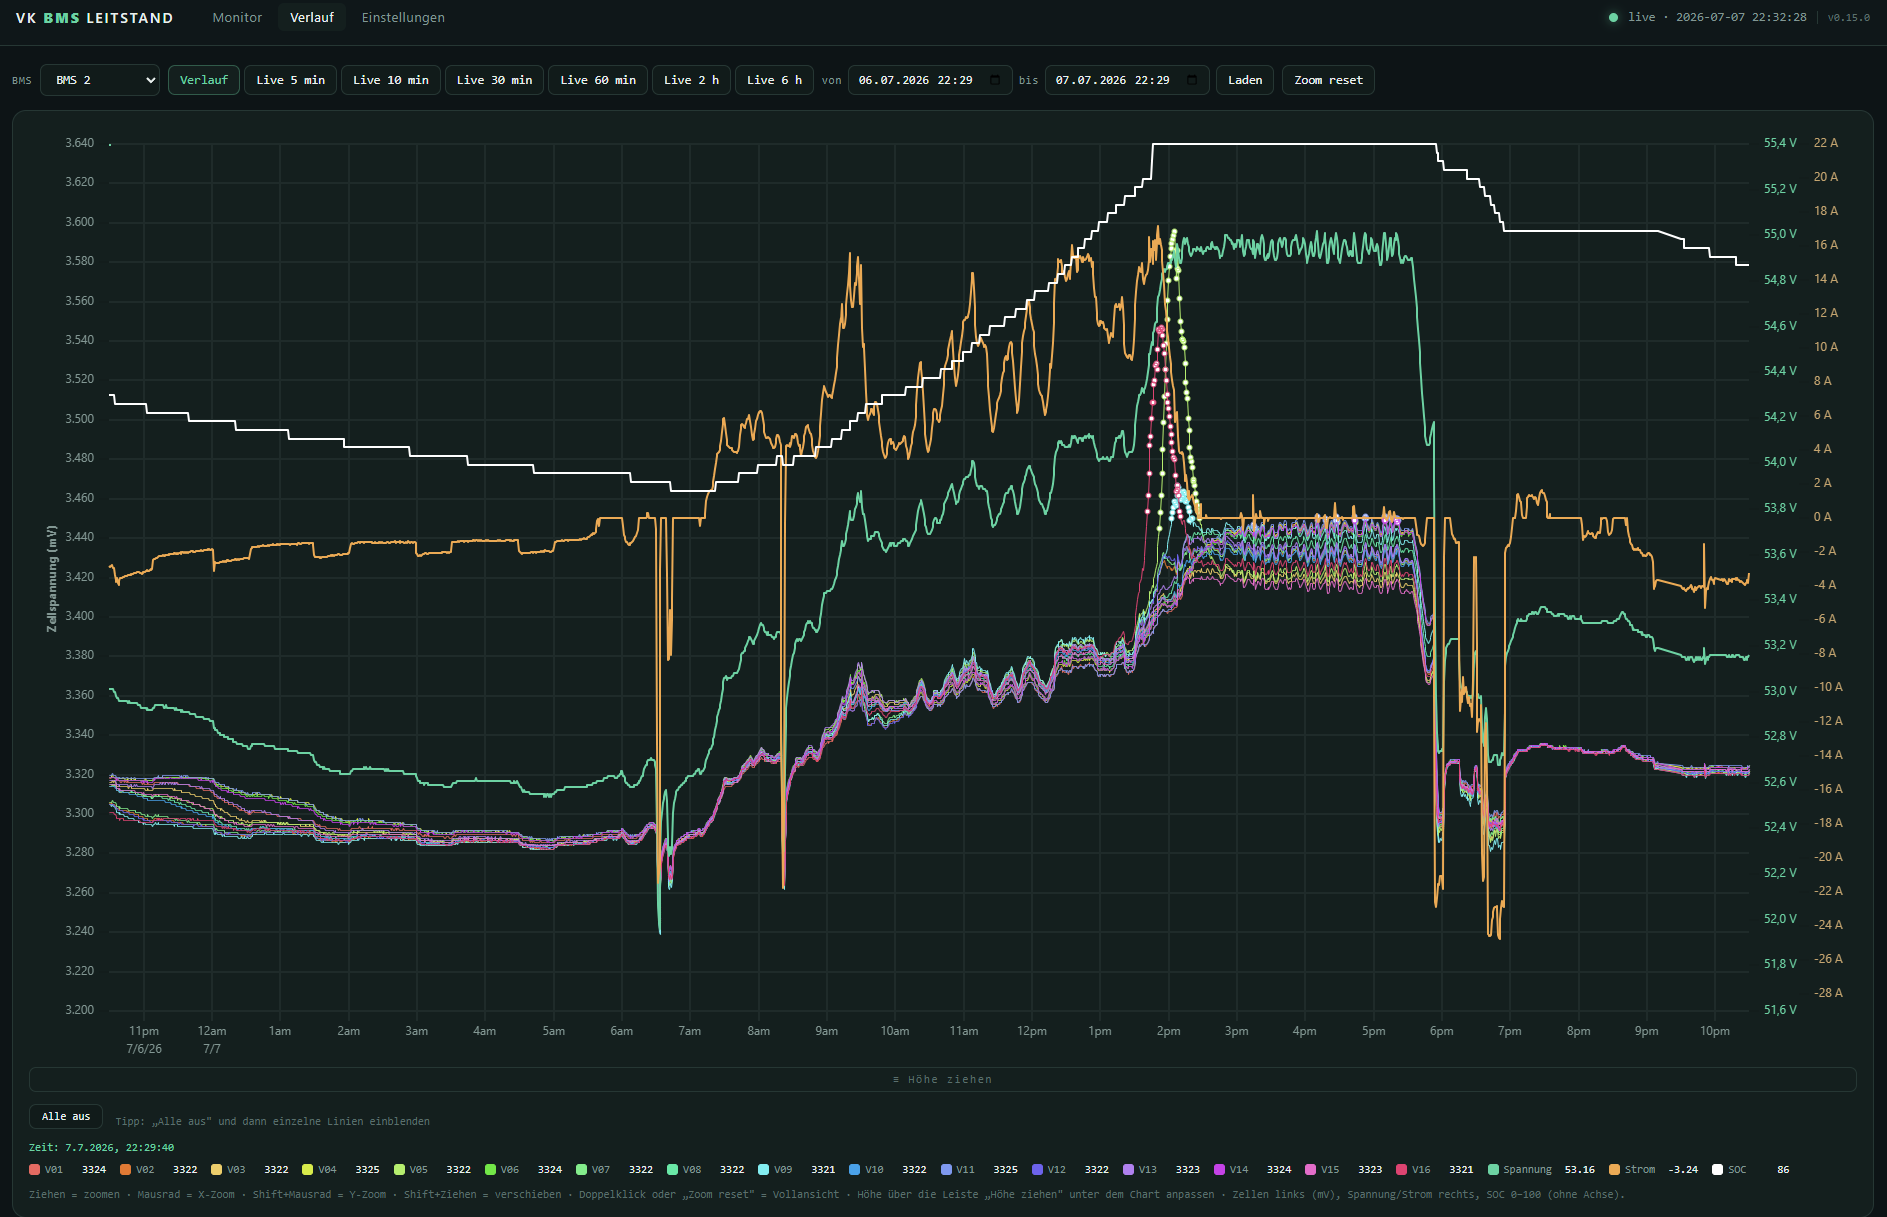
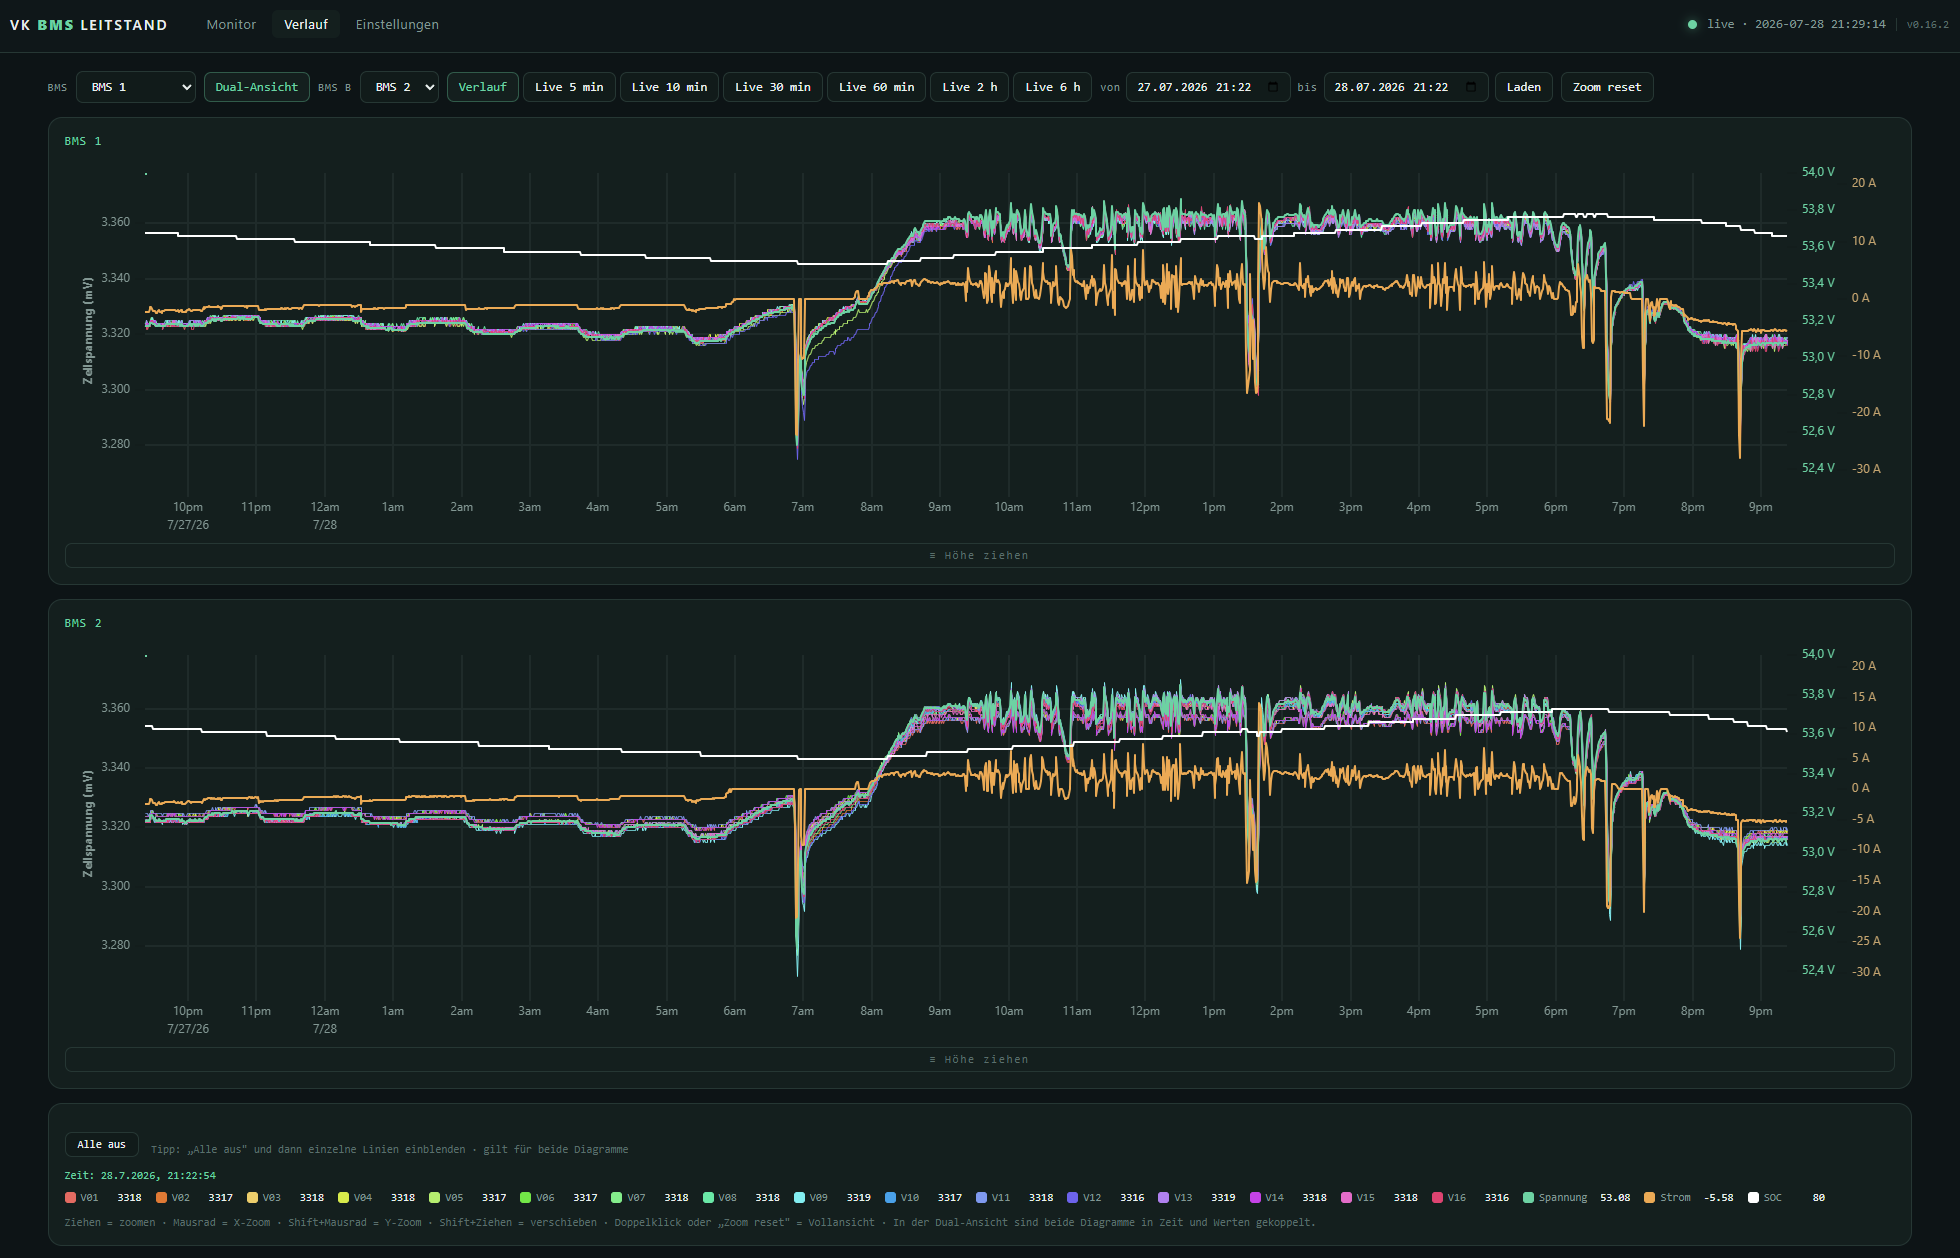
v0.16.10

diff --git a/vkbms/web/chart.html b/vkbms/web/chart.html
@@ -37,7 +37,9 @@
   .card{background:var(--panel);border:1px solid var(--line);border-radius:14px;padding:16px}
   .hint{font:11px var(--mono);color:var(--dim);margin-top:10px}
   input[type=datetime-local]{font:12px var(--mono);background:var(--panel2);color:var(--text);
-    border:1px solid var(--line);border-radius:7px;padding:6px 9px}
+    border:1px solid var(--line);border-radius:7px;padding:6px 9px;cursor:pointer}
+  input[type=datetime-local]::-webkit-calendar-picker-indicator{filter:invert(.85);cursor:pointer;opacity:.8}
+  input[type=datetime-local]::-webkit-calendar-picker-indicator:hover{opacity:1}
   /* eigene, kompakte Legende */
   #legtime{font:11px var(--mono);color:var(--charge);margin-top:12px;height:14px}
   #legtools{display:flex;align-items:center;gap:12px;margin-top:12px}
@@ -140,9 +142,9 @@ const UNIT={mv:"mV",v:"V",a:"A",soc:"%"};
 
 let charts=[];                 // uPlot-Instanzen: [0]=A (oben), [1]=B (unten)
 let PACKS=[];                  // verfügbare Quellen
-let preDualHA=null;            // Einzel-Höhe von A vor dem Umschalten auf Dual
 let sources=["",""];           // ausgewählte Quelle je Slot
-let dual=false, live=0, timer=null, zoomed=false, syncing=false;
+let dual=false, live=0, timer=null, zoomed=false;
+let liveY={};                  // im Live-Betrieb nur wachsende Y-Bereiche (kein Springen)
 const SYNC = (typeof uPlot.sync==="function") ? uPlot.sync("vkbms") : null;
 
 // Balancing-Punkte je Diagramm (u._bal = ODER-Maske je x-Index)
@@ -163,28 +165,30 @@ function cWidth(divId){ const el=document.getElementById(divId);
   return Math.max(320, (el&&el.clientWidth)? el.clientWidth : (window.innerWidth-60)); }
 function wrapHeight(wrapId){ const w=document.getElementById(wrapId); return Math.max(220,(w&&w.clientHeight)||440); }
 
-// Skalen-Kopplung: eine Änderung auf einem Diagramm auf die anderen spiegeln
+// Skalen-Kopplung: Änderung auf die anderen Diagramme spiegeln – timing-unabhängig.
+// Gespiegelt wird nur bei Wertunterschied; dadurch stoppt die gegenseitige Spiegelung
+// sofort (kein Pendeln), unabhängig davon wann uPlot den setScale-Hook feuert.
 function propagateScale(u, key){
-  if(syncing) return;
   const s=u.scales[key]; if(!s) return;
-  syncing=true;
-  charts.forEach(o=>{ if(o!==u && o.scales[key]){ o.setScale(key,{min:s.min,max:s.max}); } });
-  syncing=false;
+  charts.forEach(o=>{ if(o!==u){ const os=o.scales[key];
+    if(os && (os.min!==s.min || os.max!==s.max)) o.setScale(key,{min:s.min,max:s.max}); } });
 }
-function snapScales(u){ const g=k=>[u.scales[k].min,u.scales[k].max];
-  return {x:g("x"),mv:g("mv"),v:g("v"),a:g("a")}; }
-// Vereinigung der Wertebereiche ALLER Diagramme, damit in der Dual-Ansicht nichts
-// abgeschnitten wird (beide Packs passen in die gekoppelten Achsen)
-function unionScales(){
+// Datenbereiche (aus u._range, in applyOne gesetzt) über alle Diagramme vereinigen
+function unionRanges(){
   const r={};
   ["x","mv","v","a"].forEach(k=>{ let mn=Infinity, mx=-Infinity;
-    charts.forEach(u=>{ const s=u.scales[k]; if(s&&s.min!=null&&s.max!=null){ mn=Math.min(mn,s.min); mx=Math.max(mx,s.max); } });
+    charts.forEach(u=>{ const e=u._range&&u._range[k]; if(e){ mn=Math.min(mn,e[0]); mx=Math.max(mx,e[1]); } });
     r[k]=(mn===Infinity)?[null,null]:[mn,mx];
   });
   return r;
 }
-function applyScales(u,r){ u.setScale("x",{min:r.x[0],max:r.x[1]}); u.setScale("mv",{min:r.mv[0],max:r.mv[1]});
-  u.setScale("v",{min:r.v[0],max:r.v[1]}); u.setScale("a",{min:r.a[0],max:r.a[1]}); }
+function padY(rng){ if(!rng||rng[0]==null) return [null,null];
+  const [mn,mx]=rng; if(mn===mx) return [mn-1,mx+1]; const p=(mx-mn)*0.05; return [mn-p,mx+p]; }
+// Live: Y-Achsen auf feste Schrittweiten runden -> ruhige, nicht springende Skalen
+const YSTEP={mv:50, v:1, a:2};
+function snapY(rng, step){ if(!rng||rng[0]==null) return [null,null];
+  let [mn,mx]=rng; if(mn===mx){ mn-=step; mx+=step; }
+  return [Math.floor(mn/step)*step, Math.ceil(mx/step)*step]; }
 
 function makeChart(divId, wrapId, dragId){
   const opts={
@@ -282,12 +286,15 @@ window.addEventListener("resize",()=>{ clearTimeout(rt); rt=setTimeout(()=>{
 function applyDualHeights(){
   if(!dual || !charts[1]) return;
   const cardA=document.getElementById("cardA");
-  const top=cardA.getBoundingClientRect().top;                 // ab hier beginnen die Diagramme
+  const wrapA=document.getElementById("wrapA"), wrapB=document.getElementById("wrapB");
   const legend=document.querySelector("main > .card:last-child");
-  const legendH=legend?legend.getBoundingClientRect().height:0;
-  const overhead = 2*(16*2 + 28 + 22) + 14 + 14 + 18;          // je Card: Padding+Ziehleiste+Titel; + Abstände
-  const each=Math.max(200, Math.floor((window.innerHeight - top - legendH - overhead)/2));
-  ["wrapA","wrapB"].forEach(w=>{ document.getElementById(w).style.height=each+"px"; });
+  const top=cardA.getBoundingClientRect().top;                 // Oberkante Diagramm-Bereich
+  const bottom=legend.getBoundingClientRect().bottom;          // Unterkante des letzten Elements
+  // "chrome" = alles zwischen top und bottom AUSSER den beiden Chart-Wraps -> exakt gemessen
+  const chrome=(bottom-top)-(wrapA.clientHeight+wrapB.clientHeight);
+  const mb=parseFloat(getComputedStyle(document.querySelector("main")).marginBottom)||0;
+  const each=Math.max(200, Math.floor((window.innerHeight - top - chrome - mb - 2)/2));
+  wrapA.style.height=each+"px"; wrapB.style.height=each+"px";
   charts.forEach((u,i)=>{ const d=i===0?"chartA":"chartB"; u.setSize({width:cWidth(d),height:each}); });
 }
 
@@ -343,17 +350,32 @@ function updateLegendValues(u, idx){
     el.querySelector(".val").textContent=(v==null||isNaN(v))?"–":Number(v).toFixed(DEC[si-1]);
   });
 }
+function fitAll(){                        // volle Vereinigung (Verlauf / Reset)
+  const u=unionRanges();
+  charts.forEach(c=>{ c.setScale("x",{min:u.x[0],max:u.x[1]}); c.setScale("soc",{min:0,max:100});
+    ["mv","v","a"].forEach(k=>{ const t=padY(u[k]); c.setScale(k, t[0]!=null?{min:t[0],max:t[1]}:{min:null,max:null}); }); });
+}
+// Live-Skalierung: festes gleitendes Zeitfenster + gerundete (gesnappte) Y-Achsen
+function applyLiveScales(){
+  const u=unionRanges();
+  const xmax=u.x[1];
+  const xmin=(xmax!=null)? xmax - live*60 : u.x[0];
+  charts.forEach(c=>c.setScale("x",{min:xmin,max:xmax}));
+  ["mv","v","a"].forEach(k=>{ const t=snapY(u[k], YSTEP[k]); if(t[0]==null) return;
+    let mn=t[0], mx=t[1];
+    if(liveY[k]){ mn=Math.min(liveY[k][0],mn); mx=Math.max(liveY[k][1],mx); }
+    liveY[k]=[mn,mx]; charts.forEach(c=>c.setScale(k,{min:mn,max:mx}));
+  });
+}
 function resetZoom(){
-  zoomed=false; const el=document.getElementById("sel"); if(el) el.textContent="";
+  zoomed=false; liveY={}; const el=document.getElementById("sel"); if(el) el.textContent="";
   if(!charts[0]) return;
-  syncing=true;
-  charts.forEach(u=>{ ["x","mv","v","a"].forEach(s=>u.setScale(s,{min:null,max:null})); u.setScale("soc",{min:0,max:100}); });
-  const ref=unionScales(); charts.forEach(u=>applyScales(u,ref));
-  syncing=false;
+  if(live>0) applyLiveScales();   // Live: exakt die Live-Ansicht wiederherstellen (nicht fitAll)
+  else fitAll();
 }
 
-async function loadOne(slot){
-  const src=sources[slot], u=charts[slot]; if(!u||!src) return;
+async function fetchOne(slot){
+  const src=sources[slot], u=charts[slot]; if(!u||!src) return null;
   let url="/api/history?source="+encodeURIComponent(src)+"&max_points=2000";
   if(live>0){ url+="&minutes="+live; }
   else{ const f=document.getElementById("from").value, t=document.getElementById("to").value;
@@ -363,19 +385,33 @@ async function loadOne(slot){
     const xs=(d.time||[]).map(s=>Date.parse(s)/1000);
     const data=[xs]; CELLS.forEach(k=>data.push(d[k]||[]));
     data.push(d.voltage_v||[]); data.push(d.current_a||[]); data.push(d.soc||[]);
-    u._bal=d.balance_mask||[];
-    u.setData(data);
-  }catch(e){ console.error(e); }
+    const ext=arrs=>{ let mn=Infinity,mx=-Infinity; arrs.forEach(a=>a&&a.forEach(v=>{ if(v!=null&&!isNaN(v)){ if(v<mn)mn=v; if(v>mx)mx=v; } })); return mn===Infinity?null:[mn,mx]; };
+    return { slot, data, bal:(d.balance_mask||[]),
+      range:{ x: xs.length?[xs[0],xs[xs.length-1]]:null, mv: ext(data.slice(1,17)), v: ext([data[17]]), a: ext([data[18]]) } };
+  }catch(e){ console.error(e); return null; }
 }
+function applyOne(res){                     // synchron: Daten + Bereiche setzen
+  if(!res) return; const u=charts[res.slot]; if(!u) return;
+  u._bal=res.bal; u._range=res.range; u.setData(res.data, false);
+}
+let loading=false;
 async function loadData(){
-  const slots = dual?[0,1]:[0];
-  const keep = (live>0 && zoomed && charts[0]) ? snapScales(charts[0]) : null;
-  syncing=true;
-  for(const s of slots){ await loadOne(s); }
-  const ref = keep || unionScales();
-  charts.forEach(u=>applyScales(u,ref));
-  syncing=false;
-  updateLegendValues(charts[0], null);
+  if(loading) return;                       // Überlappung verhindern (kein syncing-Race)
+  loading=true;
+  try{
+    const slots = dual?[0,1]:[0];
+    const results = await Promise.all(slots.map(s=>fetchOne(s)));   // parallel laden
+    // ab hier alles SYNCHRON – kein await mehr
+    results.forEach(applyOne);
+    if(zoomed){
+      // Nutzer-Zoom beibehalten
+    } else if(live>0){
+      applyLiveScales();
+    } else {
+      fitAll();
+    }
+    updateLegendValues(charts[0], null);
+  } finally { loading=false; }
 }
 
 function setMode(m){
@@ -400,19 +436,28 @@ function setDual(on){
     // B automatisch auf das nächste ANDERE Pack setzen (nicht dasselbe wie A)
     const other=PACKS.find(p=>p!==sources[0]);
     if(other){ sources[1]=other; selB.value=other; }
-    if(preDualHA==null) preDualHA=document.getElementById("wrapA").clientHeight;
     if(!charts[1]){ charts[1]=makeChart("chartB","wrapB"); buildLegendSyncFromA(charts[1]); }
     document.getElementById("titleA").textContent = sources[0];
     document.getElementById("titleB").textContent = sources[1];
     loadData();
     applyDualHeights();
   } else {
-    // zurück zu Einzelansicht: A wieder auf vorherige Höhe
-    const wA=document.getElementById("wrapA");
-    wA.style.height=((preDualHA||470))+"px"; preDualHA=null;
-    if(charts[0]) charts[0].setSize({width:cWidth("chartA"),height:wrapHeight("wrapA")});
+    // zurück zu Einzelansicht: A auf die volle verfügbare Fensterhöhe (nicht verkleinern)
+    applySingleHeight();
     loadData();
   }
+}
+// Einzel-Diagramm auf die verfügbare Fensterhöhe einpassen
+function applySingleHeight(){
+  if(!charts[0]) return;
+  const cardA=document.getElementById("cardA"), wrapA=document.getElementById("wrapA");
+  const legend=document.querySelector("main > .card:last-child");
+  const top=cardA.getBoundingClientRect().top, bottom=legend.getBoundingClientRect().bottom;
+  const chrome=(bottom-top)-wrapA.clientHeight;
+  const mb=parseFloat(getComputedStyle(document.querySelector("main")).marginBottom)||0;
+  const h=Math.max(260, Math.floor(window.innerHeight - top - chrome - mb - 2));
+  wrapA.style.height=h+"px";
+  charts[0].setSize({width:cWidth("chartA"),height:h});
 }
 // neu erzeugtes B-Diagramm auf aktuellen Legenden-Zustand von A bringen
 function buildLegendSyncFromA(uB){
@@ -450,6 +495,9 @@ async function init(){
   const iso=d=>new Date(d.getTime()-d.getTimezoneOffset()*60000).toISOString().slice(0,16);
   document.getElementById("to").value=iso(now);
   document.getElementById("from").value=iso(past);
+  // Klick ins Feld öffnet direkt den nativen Kalender/Uhrzeit-Picker (wo unterstützt)
+  ["from","to"].forEach(id=>{ const el=document.getElementById(id);
+    el.addEventListener("click",()=>{ if(el.showPicker){ try{ el.showPicker(); }catch(e){} } }); });
   document.querySelectorAll("#modes .seg").forEach(b=>b.onclick=()=>setMode(b.dataset.live));
   document.getElementById("load").onclick=()=>{ resetZoom(); loadData(); };
   document.getElementById("reset").onclick=resetZoom;

diff --git a/vkbms/__init__.py b/vkbms/__init__.py
@@ -4,4 +4,4 @@ Entwicklung in Zusammenarbeit: das Coding übernimmt Claude (Anthropic),
 die Funktionen werden gemeinsam mit Gesiima erarbeitet (Anforderungen,
 Reverse-Engineering-Richtung, Tests und Korrekturen von Gesiima).
 """
-__version__ = "0.16.2"
+__version__ = "0.16.10"

diff --git a/CHANGELOG.md b/CHANGELOG.md
@@ -2,6 +2,66 @@
 
 Format: neueste Version oben. Versionierung: MAJOR.MINOR.PATCH.
 
+## [0.16.10] — 2026-07-07
+### Behoben
+- **Live: „Zoom reset" ergab eine andere Ansicht als die ursprüngliche**. Der Reset nutzte
+  `fitAll()` (volle Datenspanne + proportionaler Rand); die Live-Ansicht verwendet aber ein
+  festes gleitendes Fenster + gerundete Y-Achsen. Zoom reset stellt in Live jetzt exakt die
+  Live-Skalierung wieder her (identische Funktion für laufende Aktualisierung und Reset).
+
+## [0.16.9] — 2026-07-07
+### Behoben
+- **Dual-Live: pendelnde Skalierung („zu nah → gut") je Refresh**. uPlot wendet `setScale`
+  teils verzögert (rAF) an, wodurch der Kopplungs-Hook nach dem Zurücksetzen des bisherigen
+  Sperr-Flags feuerte und die zwei Diagramme sich gegenseitig immer wieder umskalierten.
+  Die Kopplung arbeitet jetzt **timing-unabhängig per Wertevergleich** (Spiegeln nur bei
+  echtem Unterschied) – die gegenseitige Spiegelung stoppt sofort, kein Pendeln mehr.
+
+## [0.16.8] — 2026-07-07
+### Behoben
+- **Dual-Live: springende Skalierung durch Race-Condition**. `loadData` hielt das
+  Synchronisations-Flag über den `await` (fetch) hinweg; in der Dual-Ansicht (zwei Fetches,
+  längere Laufzeit) startete der Live-Timer eine zweite Aktualisierung, während die erste
+  noch lud – dadurch wurde die Skalen-Kopplung kurzzeitig nicht unterdrückt und die beiden
+  Diagramme „kämpften" um die Achsen. Laden (async, jetzt parallel) und Anwenden (synchron)
+  sind nun getrennt, mit Überlappungsschutz – die Achsen bleiben ruhig.
+
+## [0.16.7] — 2026-07-07
+### Behoben
+- **Dual-Ansicht: springende Zeitachse in Live**. Statt der Vereinigung der Zeitbereiche
+  beider Packs (die durch leicht versetzte Poll-Zeitpunkte wanderte) wird nun ein festes,
+  gleitendes Zeitfenster verwendet (max = neuester Zeitpunkt, min = max − Live-Minuten).
+  Beide Diagramme laufen dadurch gleichmäßig und ruhig mit.
+
+## [0.16.6] — 2026-07-07
+### Geändert
+- **Live-Ansicht: ruhige Y-Achsen**. Statt proportionalem Rand werden die Werteachsen auf
+  feste Schrittweiten gerundet (Zellspannung 50 mV, Packspannung 1 V, Strom 2 A) und nur
+  erweitert. Aufeinanderfolgende Aktualisierungen ergeben denselben Achsenbereich – die
+  Skalen springen nicht mehr bei jedem Refresh, sondern nur beim Überschreiten einer Stufe.
+
+## [0.16.5] — 2026-07-07
+### Behoben
+- **Dual-Ansicht: verbleibender leerer Scrollstreifen**. In der Höhenberechnung fehlte der
+  untere Rand von `main` (~18 px); er wird jetzt real gemessen und abgezogen — kein Überstand
+  mehr (gilt auch für die Einzelansicht).
+
+## [0.16.4] — 2026-07-07
+### Geändert
+- **Zeitraum-Felder** (von/bis): Kalender-/Uhrzeit-Symbol ist jetzt sichtbar, und ein Klick
+  ins Feld öffnet direkt den nativen Kalender-/Uhrzeit-Picker zum Auswählen (Direkteingabe
+  von Zahlen bleibt weiterhin möglich).
+
+## [0.16.3] — 2026-07-07
+### Behoben
+- **Dual-Ansicht: leerer Scrollstreifen** unter der Legende. Die Höhenberechnung schätzte
+  den Overhead; jetzt wird er real gemessen (kein Überstand mehr).
+- **Live-Flackern des oberen Diagramms**: Aktualisierungen nutzen jetzt `setData(...,false)`
+  (kein Zwischen-Autoscale). Der sichtbare Zeitbereich wandert ruhig mit; die Y-Achsen
+  werden im Live-Betrieb nur noch **erweitert, wenn nötig** (kein Springen).
+- **Wechsel Dual → Einzel** verkleinerte das Diagramm. Die Einzelansicht füllt jetzt die
+  verfügbare Fensterhöhe (statt kleiner zu werden).
+
 ## [0.16.2] — 2026-07-07
 ### Behoben
 - **Dual-Ansicht: abgeschnittene Werte**. Die gekoppelten Achsen nutzten nur den

diff --git a/README.md b/README.md
@@ -315,7 +315,7 @@ Steuerung unter `control/` (CFET/DFET), Temperaturen, Kennwerte und der Online-S
 
 ## Stand & Roadmap
 
-Aktuelle Version: **v0.16.2**. Änderungen je Release in `CHANGELOG.md`, geplante Punkte
+Aktuelle Version: **v0.16.10**. Änderungen je Release in `CHANGELOG.md`, geplante Punkte
 in `ROADMAP.md`.
 
 ## Mitwirkung / Attribution
